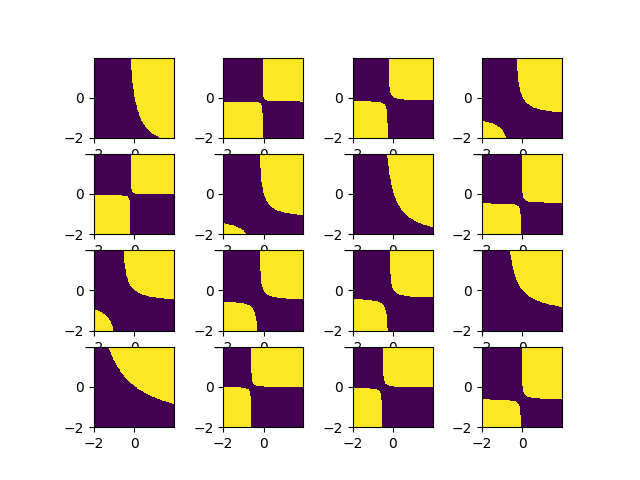
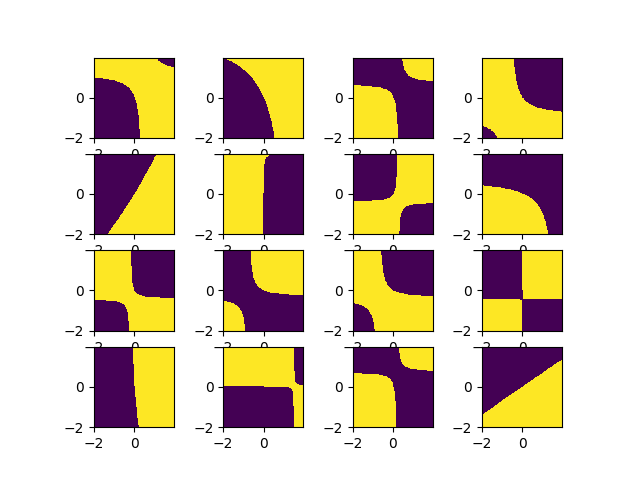
fixed NPC initialization

diff --git a/NPC.py b/NPC.py
@@ -11,8 +11,8 @@ class BinNPC:
 		# initialize a random MNPC with M clusters in the layer
 		self.N = N
 		# Initialize NPC paremeters however you wish. Actual restrictions on NPC parameters should also go into the training function
-		self.W = np.random.rand(N)
-		self.omega_i = np.random.rand(N, N) 
+		self.W = (np.random.rand(N) - 0.5) * 2
+		self.omega_i = (np.random.rand(N, N) - 0.5) * 2 
 		for i in range(N):
 			self.omega_i[i, i] = 0
 
@@ -65,4 +65,3 @@ class BinNPC:
 			if (self.label(example) == labels[exampleIdx]):
 				successCount += 1
 		return (1 - successCount / len(examples))
-
